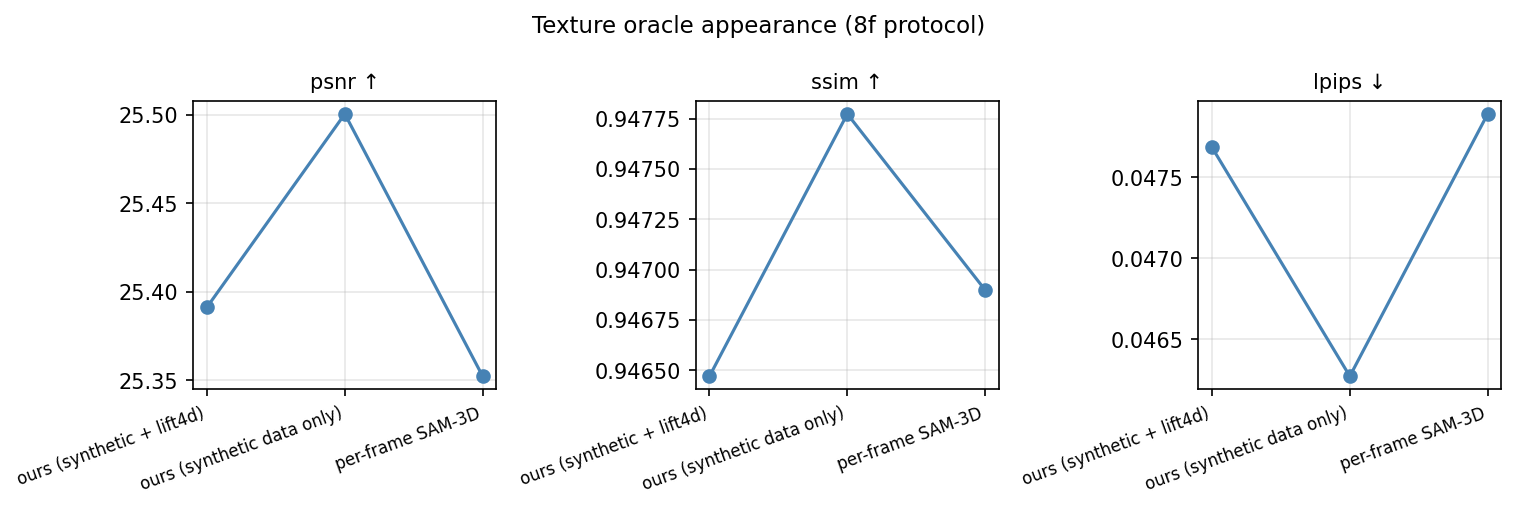
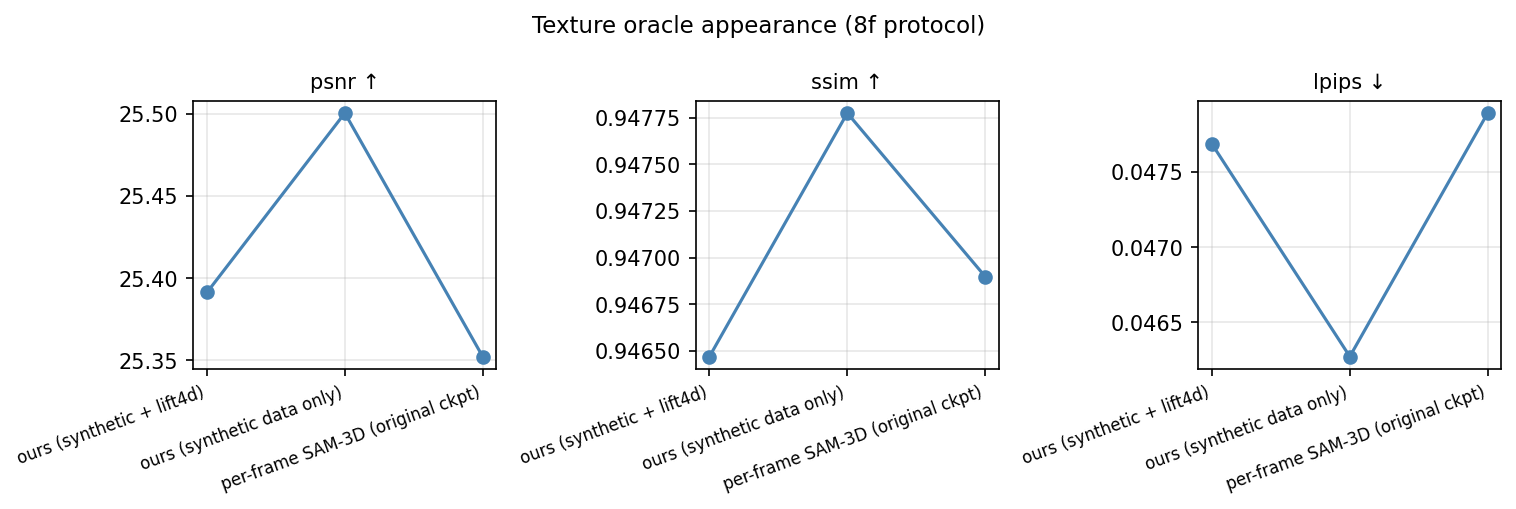
sam3d: 32f galleries (ovb, lift4d ablation, frame-count)

diff --git a/sam3d/g32_ovb.html b/sam3d/g32_ovb.html
@@ -5,7 +5,7 @@
 margin:0;padding:24px}h1{font-size:19px}h2{font-size:15px;color:#bbb;margin-top:26px}
 .e{margin:18px 0}.e h3{font-size:13px;color:#9ab;margin:4px 0}video{max-width:100%;display:block}
 .cap{font-size:12px;color:#888;margin:2px 0}</style>
-<h1>Ours vs Per-frame SAM-3D — 32 frames, full videos</h1><p class=cap>Each video: OURS row (top) + per-frame SAM-3D row. Ours = syn4d+lift4d full-layout geom + m324->lift4d tex.</p>
+<h1>Ours vs Per-frame SAM-3D — 32 frames, full videos</h1><p class=cap>Each video: OURS row (top) + per-frame SAM-3D (original ckpt) row. Ours = syn4d+lift4d full-layout geom + m324->lift4d tex.</p>
 <p><button onclick="document.querySelectorAll('video').forEach(v=>v.play())">&#9654; play all</button>
 <button onclick="document.querySelectorAll('video').forEach(v=>v.pause())">&#10074;&#10074; pause all</button></p>
 
